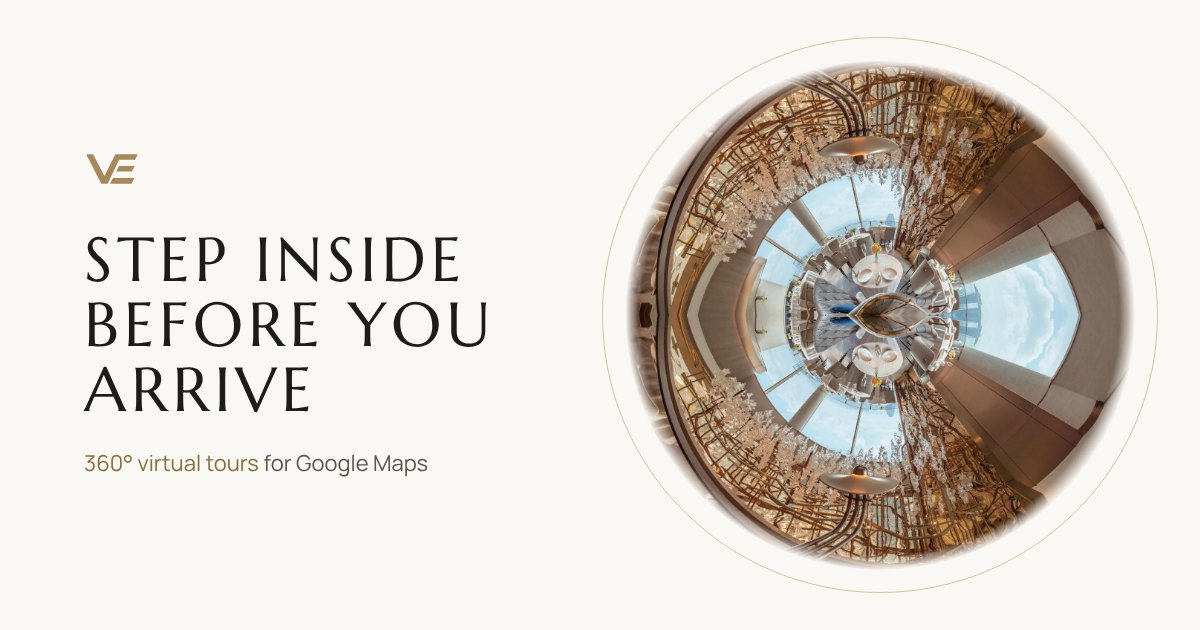
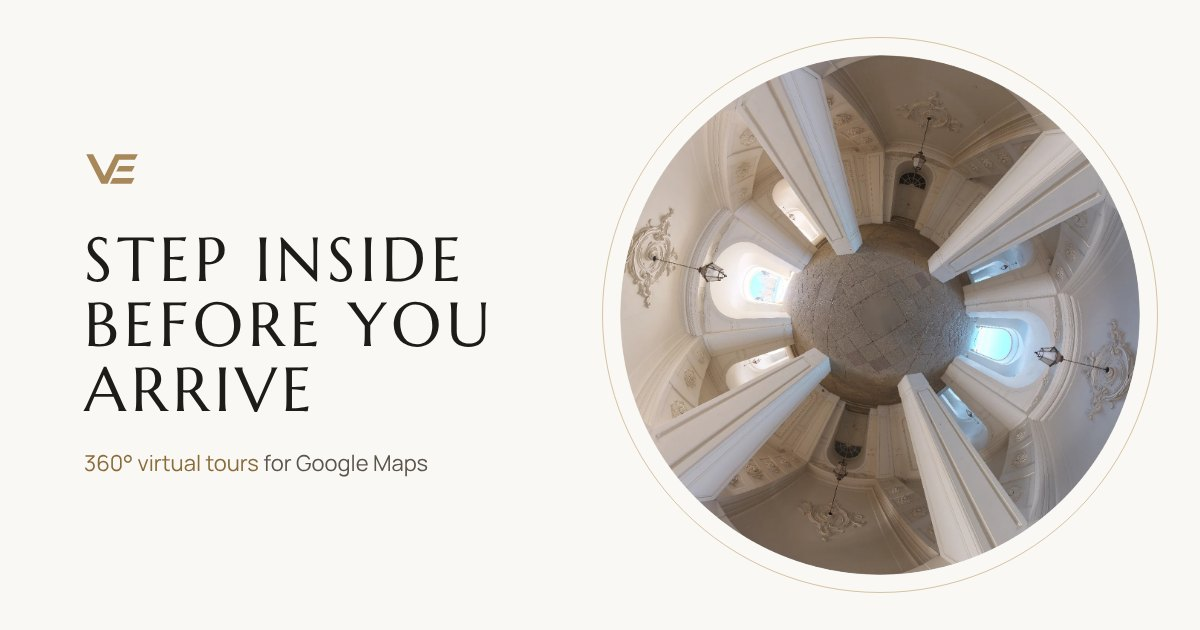
Hero: real 360° little planet and room view
Rendered from a full equirectangular panorama (Poly Haven 'Solitude
interior', CC0) instead of a bent flat photo: sharp edge, no invented
areas. Intro captions no longer name a venue VantEdge didn't shoot.
Share image updated to match.

Claude-Session: https://claude.ai/code/session_01JQDS4s3xfYbkerinWN6GmF

Changed region(s): [[0.4933, 0.0905, 0.9558, 0.9349]]

diff --git a/src/components/sections/Hero.tsx b/src/components/sections/Hero.tsx
@@ -68,11 +68,11 @@ export default class Hero extends Component<object, S> {
     };
   return (
     <section className={`hero${s.ready ? '' : ' hero-wait'}`} id="top" aria-label="Introduction">
-      <div className={`room ${v.roomCls}`} style={{ backgroundPosition: `${v.panX}% 50%` }} onPointerDown={v.onDown} onPointerMove={v.onMove} onPointerUp={v.onUp} onPointerLeave={v.onUp} role="img" aria-label="360° preview of a sky-level dining room. Drag to look around." />
+      <div className={`room ${v.roomCls}`} style={{ backgroundPosition: `${v.panX}% 50%` }} onPointerDown={v.onDown} onPointerMove={v.onMove} onPointerUp={v.onUp} onPointerLeave={v.onUp} role="img" aria-label="360° preview of a colonnaded hall. Drag to look around." />
       <div className={`shade ${v.shadeCls}`} />
       <div className={`c2scrim ${v.c2Cls}`} />
       <div className={`frame ${v.frameCls}`} />
-      <p className={`cap c1 ${v.c1Cls}`}>Sky Dining, Dubai</p>
+      <p className={`cap c1 ${v.c1Cls}`}>This is a photo</p>
       <p className={`cap c2 ${v.c2Cls}`}>Now look<br />around</p>
       <div className={`flank ${v.planetCls}`}>
         <div className="wrap flankin"><h1 className="cap fh fl">Step inside</h1><div /><div className="cap fh fr">before you arrive</div></div>
@@ -88,7 +88,7 @@ export default class Hero extends Component<object, S> {
         <div className="row"><button className="btn" onClick={v.enter}>Walk through a tour</button><a className="btn ol" href="#work">See the work</a></div>
       </div>
       <div className={`insidebar ${v.insideCls}`}>
-        <div className="wrap ibin"><span>Sky Dining, Dubai. Drag to look around.</span><button className="back" onClick={v.fold}>Fold back to 360°</button></div>
+        <div className="wrap ibin"><span>Drag to look around</span><button className="back" onClick={v.fold}>Fold back to 360°</button></div>
       </div>
       <header className={`nav ${v.navCls}`}>
         <div className="wrap navin">

diff --git a/src/content/assets.ts b/src/content/assets.ts
@@ -2,12 +2,12 @@
  * Static imports give the exact, hashed URLs the CSS also uses for these
  * background images, so preloading and prefetching hit the same files.
  */
-import restaurant from '../../public/images/restaurant.webp';
+import room from '../../public/images/hero-room.webp';
 import villa from '../../public/images/villa.webp';
 import lounge from '../../public/images/lounge.webp';
 import suite from '../../public/images/suite.webp';
-import planet from '../../public/images/planet-restaurant.webp';
+import planet from '../../public/images/hero-planet.webp';
 
-export const heroRoomSrc = restaurant.src;
+export const heroRoomSrc = room.src;
 export const heroPlanetSrc = planet.src;
 export const laterImages = [villa.src, lounge.src, suite.src];

diff --git a/app/home.css b/app/home.css
@@ -726,3 +726,7 @@ html{font-size:20px}
 @keyframes gvlspin{to{transform:rotate(360deg)}}
 @keyframes gvlin{from{opacity:0}}
 @media (prefers-reduced-motion:reduce){.gvl-ring{animation-duration:3s}}
+
+/* ===== Hero · stand-in 360° panorama (Poly Haven "Solitude interior", CC0) until the client's own file arrives ===== */
+.room{background-image:url(../public/images/hero-room.webp)}
+.dk-stage>article:nth-of-type(2) .dk-dial{background-image:url(../public/images/hero-planet.webp)}

diff --git a/src/content/site.ts b/src/content/site.ts
@@ -11,7 +11,7 @@ export const images = {
   logoGold: u('/images/ve-emblem-gold.svg'),
   googleBadge: u('/images/google-trusted-badge.png'),
   mapLinework: u('/images/map-linework.svg'),
-  heroPlanet: u('/images/planet-restaurant.webp'),
+  heroPlanet: u('/images/hero-planet.webp'),
 };
 
 export type Tour = { title: string; googleMapsUrl: string; embedUrl: string };

diff --git a/README.md b/README.md
@@ -32,6 +32,10 @@ Vercel, Netlify or any other static host also works with no changes: build comma
 | Styles | `app/home.css` (ported 1:1 from the approved design) and `app/legal.css` |
 | Approved design and build spec | `design/`. Run `python3 design/reference/serve.py` to view it |
 
+## Stand-in images
+
+The hero planet and room view (`public/images/hero-planet.webp`, `hero-room.webp`) are rendered from Poly Haven's "Solitude interior" 360° panorama (CC0, free to use, no credit needed): https://polyhaven.com/a/solitude_interior. Replace them with a render from the client's own panorama before launch.
+
 ## Still to do before launch
 
 - [ ] **Contact form.** Choose a service (Formspree, Web3Forms, …) and paste its endpoint into `formEndpoint` in `src/content/site.ts`. Until then, the form shows the thank-you message but sends nothing.
